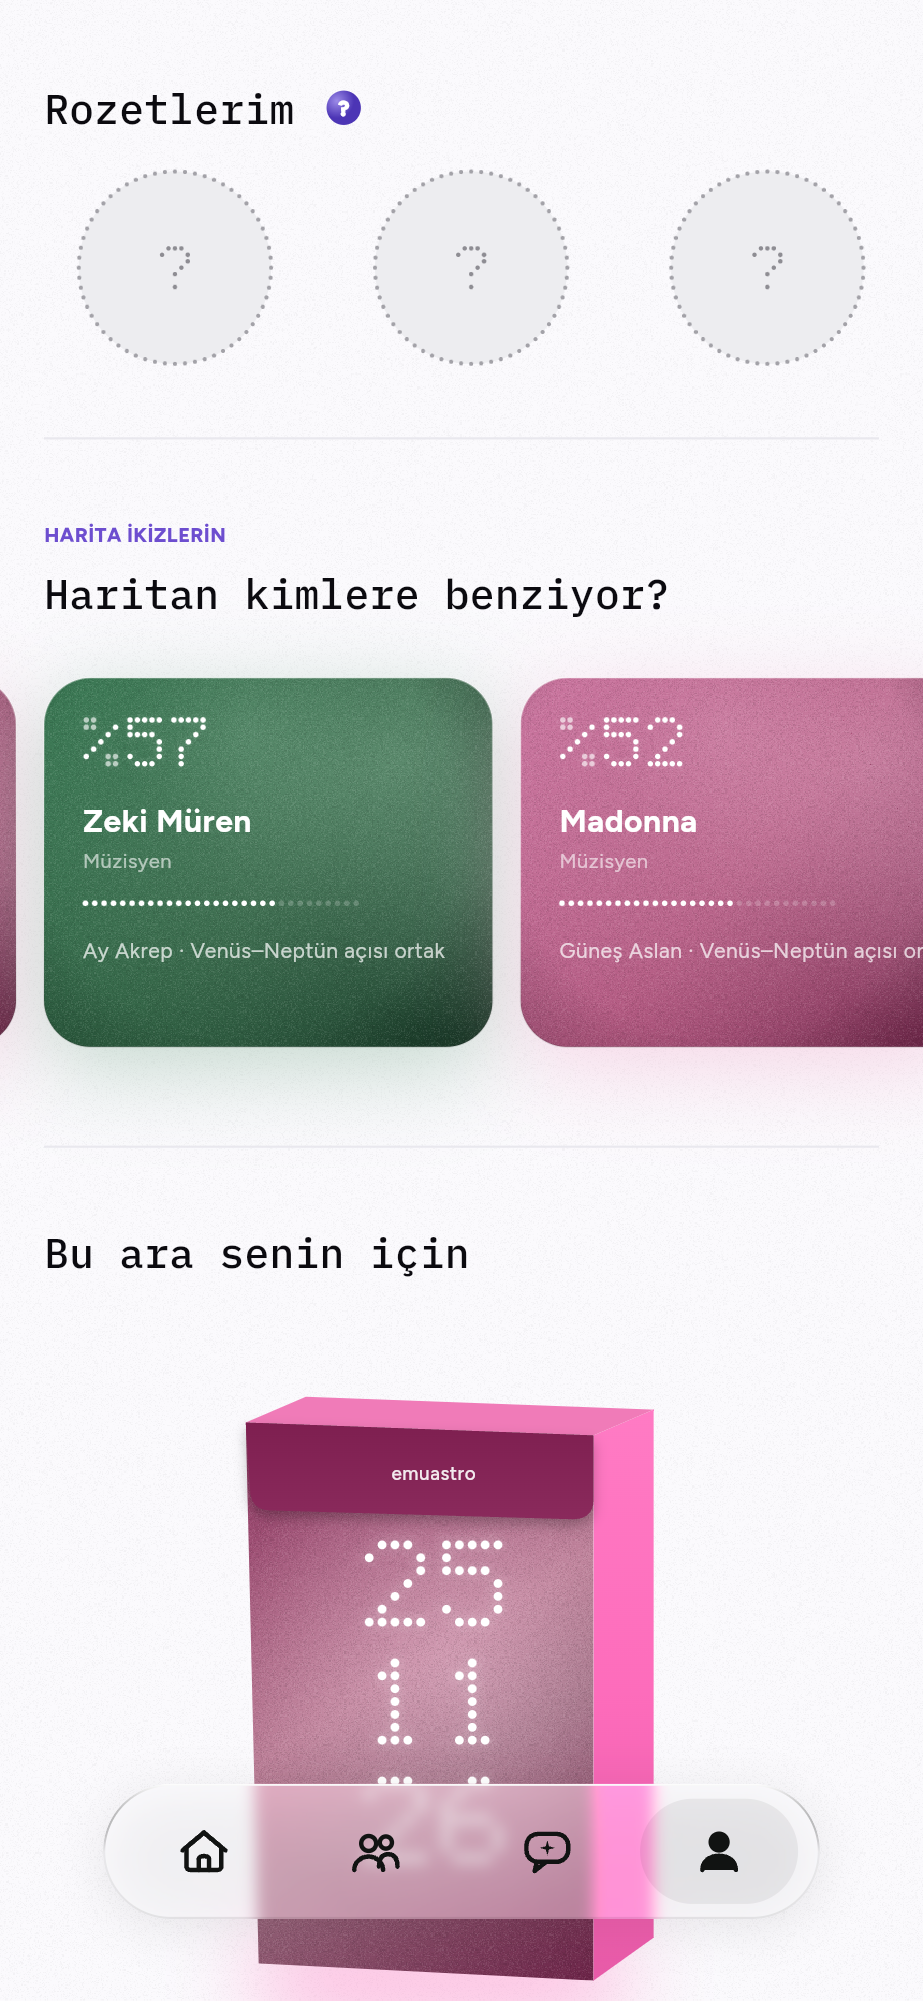
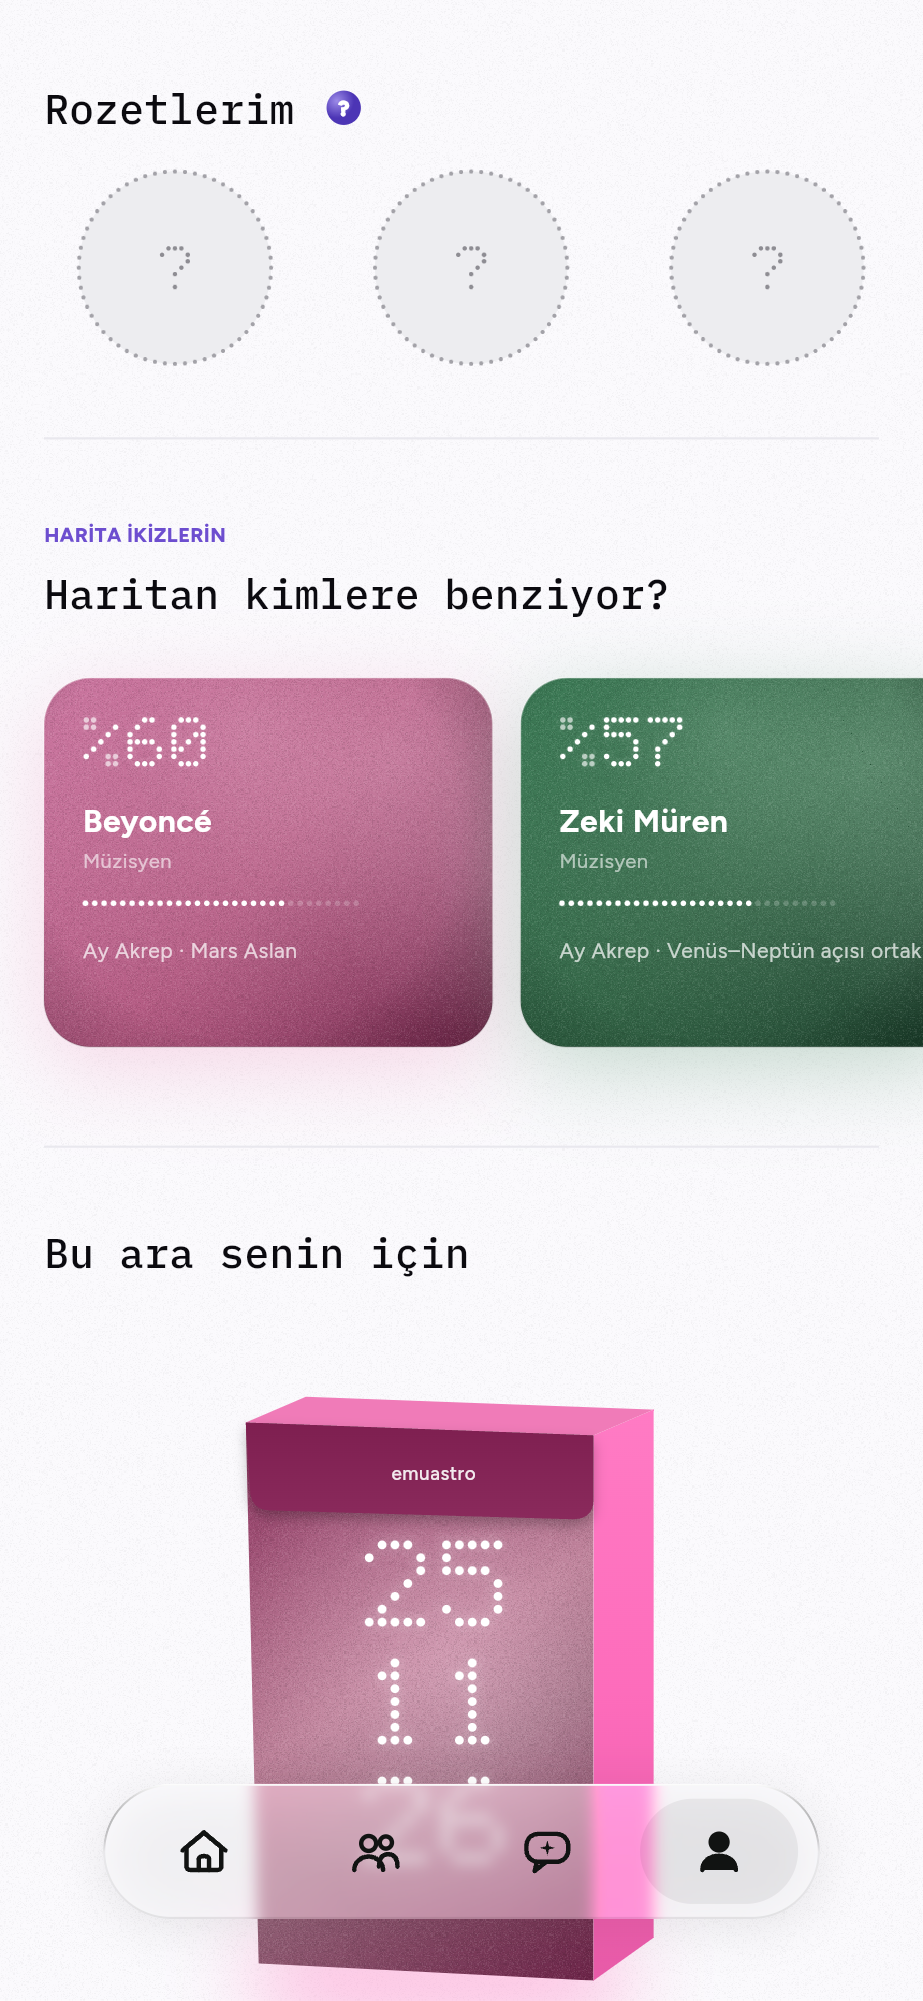
Rehber eşleştirme bağlandı, gün değişiminde yenileme, okunmamış bildirim noktası, ikiz kartları baştan, eski menü kodu kaldırıldı
Claude-Session: https://claude.ai/code/session_01LDjTy557VzBgv9ajHnTzL8

Changed region(s): [[0.0, 0.3408, 1.0, 0.5577]]

diff --git a/lib/widgets/common.dart b/lib/widgets/common.dart
@@ -1,5 +1,4 @@
 import 'dart:math' as math;
-import 'dart:ui' as ui;
 
 import 'package:flutter/material.dart';
 
@@ -330,159 +329,6 @@ class _ChatP extends CustomPainter {
 
   @override
   bool shouldRepaint(covariant CustomPainter o) => false;
-}
-
-/// Yüzen alt gezinme: üç sekmeli lavanta kapsül + bağımsız sohbet düğmesi.
-class FloatingNav extends StatelessWidget {
-  final int index;
-  final bool compact;
-  final ValueChanged<int> onTap;
-  final VoidCallback onChat;
-  const FloatingNav(
-      {super.key,
-      required this.index,
-      required this.compact,
-      required this.onTap,
-      required this.onChat});
-
-  @override
-  Widget build(BuildContext context) {
-    const labels = ['Ana Sayfa', 'İlişkiler', 'Profil'];
-    final w = compact ? 183.5 : 245.5;
-    final h = compact ? 41.0 : 56.0;
-    final chat = compact ? 42.0 : 57.0;
-    const dur = Duration(milliseconds: 260);
-    final bottom = MediaQuery.of(context).padding.bottom;
-    return Positioned(
-      left: 0,
-      right: 0,
-      bottom: bottom + 4,
-      child: SizedBox(
-        height: 57,
-        child: Stack(children: [
-          AnimatedPositioned(
-            duration: dur,
-            curve: Curves.easeOutCubic,
-            left: 18,
-            bottom: 0,
-            width: w,
-            height: h,
-            child: _Glass(
-              radius: h / 2,
-              child: LayoutBuilder(builder: (ctx, c) {
-                final pad = compact ? 3.5 : 5.0;
-                final slotW = (c.maxWidth - pad * 2) / 3;
-                return Stack(children: [
-                  AnimatedPositioned(
-                    duration: dur,
-                    curve: Curves.easeOutCubic,
-                    left: pad + slotW * index - (compact ? 0 : 1),
-                    top: pad,
-                    bottom: pad,
-                    width: slotW + (compact ? 0 : 2),
-                    child: Container(
-                      decoration: BoxDecoration(
-                        borderRadius: BorderRadius.circular(h),
-                        gradient: LinearGradient(
-                            begin: Alignment.topCenter,
-                            end: Alignment.bottomCenter,
-                            colors: [
-                              Colors.white.withValues(alpha: .22),
-                              Colors.white.withValues(alpha: .12)
-                            ]),
-                        border: Border.all(
-                            color: Colors.white.withValues(alpha: .55),
-                            width: 1),
-                      ),
-                    ),
-                  ),
-                  Row(children: [
-                    SizedBox(width: pad),
-                    for (var i = 0; i < 3; i++)
-                      Expanded(
-                        child: GestureDetector(
-                          behavior: HitTestBehavior.opaque,
-                          onTap: () => onTap(i),
-                          child: Center(
-                            child: AnimatedDefaultTextStyle(
-                              duration: dur,
-                              style: T.nav.copyWith(
-                                  fontSize: compact ? 10.2 : 13.4,
-                                  fontWeight: i == index
-                                      ? FontWeight.w700
-                                      : FontWeight.w500,
-                                  color: Colors.white.withValues(
-                                      alpha: i == index ? 1 : .92)),
-                              child: Text(labels[i], maxLines: 1),
-                            ),
-                          ),
-                        ),
-                      ),
-                    SizedBox(width: pad),
-                  ]),
-                ]);
-              }),
-            ),
-          ),
-          AnimatedPositioned(
-            duration: dur,
-            curve: Curves.easeOutCubic,
-            right: 18,
-            bottom: 0,
-            width: chat,
-            height: chat,
-            child: GestureDetector(
-              onTap: onChat,
-              child: _Glass(
-                  radius: chat / 2,
-                  child: Center(child: ChatGlyph(size: chat * .5))),
-            ),
-          ),
-        ]),
-      ),
-    );
-  }
-}
-
-class _Glass extends StatelessWidget {
-  final double radius;
-  final Widget child;
-  const _Glass({required this.radius, required this.child});
-  @override
-  Widget build(BuildContext context) {
-    return DecoratedBox(
-      decoration: BoxDecoration(
-        borderRadius: BorderRadius.circular(radius),
-        boxShadow: [
-          BoxShadow(
-              color: const Color(0xFF8E6CF5).withValues(alpha: .38),
-              blurRadius: 18,
-              offset: const Offset(0, 6)),
-        ],
-      ),
-      child: ClipRRect(
-        borderRadius: BorderRadius.circular(radius),
-        child: BackdropFilter(
-          filter: ui.ImageFilter.blur(sigmaX: 8, sigmaY: 8),
-          child: Container(
-            decoration: BoxDecoration(
-              borderRadius: BorderRadius.circular(radius),
-              gradient: LinearGradient(
-                  begin: Alignment.topCenter,
-                  end: Alignment.bottomCenter,
-                  colors: [
-                    C.navTop.withValues(alpha: .93),
-                    C.navBase.withValues(alpha: .93)
-                  ]),
-              border: Border.all(
-                  color: Colors.white.withValues(alpha: .35), width: .8),
-            ),
-            child: child,
-          ),
-        ),
-      ),
-    );
-  }
 }
 
 void showInfo(BuildContext context, String title, String body) {

diff --git a/lib/data/sample.dart b/lib/data/sample.dart
@@ -160,6 +160,7 @@ class AppData extends ChangeNotifier {
     final tk = _dayKey(today);
     questionsToday = p.getString('qDay') == tk ? (p.getInt('qCount') ?? 0) : 0;
     boxOpenedDay = p.getString('boxDay');
+    seenEvents = p.getString('seenEvents');
     // seri: art arda açılan günler
     final last = p.getString('lastOpen');
     streak = p.getInt('streak') ?? 1;
@@ -287,6 +288,24 @@ class AppData extends ChangeNotifier {
   }
 
   bool get boxOpenedToday => boxOpenedDay == _dayKey(today);
+
+  /// Uygulama öne gelince tarih değiştiyse günlük içeriği yeniden hesaplar.
+  void refreshDay() {
+    final now = DateTime.now();
+    if (_dayKey(now) == _dayKey(today)) return;
+    today = now;
+    questionsToday = 0;
+    _recompute();
+  }
+
+  String? seenEvents;
+  bool get hasUnseen =>
+      events.isNotEmpty && seenEvents != events.map((e) => e.key).join(',');
+  void markEventsSeen() {
+    seenEvents = events.map((e) => e.key).join(',');
+    _prefs?.setString('seenEvents', seenEvents!);
+    notifyListeners();
+  }
 
   void startTrial(int days) {
     trialUntil = DateTime.now().add(Duration(days: days));

diff --git a/lib/screens/friends.dart b/lib/screens/friends.dart
@@ -10,6 +10,7 @@ import '../widgets/common.dart';
 import '../widgets/dots.dart';
 import '../widgets/surface.dart';
 import 'premium.dart';
+import '../services/backend.dart';
 
 String fmtDate(DateTime d) =>
     '${d.day.toString().padLeft(2, '0')}.${d.month.toString().padLeft(2, '0')}.${d.year}';
@@ -161,8 +162,18 @@ Future<void> pickFromContacts(BuildContext context) async {
       }
       return;
     }
-    final list = await FlutterContacts.getAll();
+    final list = await FlutterContacts.getAll(properties: {ContactProperty.phone});
     if (!context.mounted) return;
+    if (Backend.enabled) {
+      final phones = [for (final c in list) for (final ph in c.phones) ph.number];
+      try {
+        final m = await Backend.matchContacts(phones);
+        if (context.mounted && m.isNotEmpty) {
+          showInfo(context, 'Rehberinde EmuAstro’da olanlar',
+              m.map((u) => '• ${u['name']}${u['username'] != null ? ' (@${u['username']})' : ''}').join('\n'));
+        }
+      } catch (_) {}
+    }
     final picked = await showModalBottomSheet<String>(
         context: context,
         isScrollControlled: true,

diff --git a/lib/screens/home.dart b/lib/screens/home.dart
@@ -47,15 +47,19 @@ class HomeScreen extends StatelessWidget {
             Padding(
               padding: const EdgeInsets.only(top: 3, right: 10),
               child: GestureDetector(
-                onTap: () => showInfo(context, 'Bildirimler', [
+                onTap: () {
+                  app.markEventsSeen();
+                  showInfo(context, 'Bildirimler', [
                   for (final e in events) '• ${e.title} (${e.date.day} ${trMonths[e.date.month - 1]}): etkilerin hazır.',
                   '• Bugünkü yaşam haritan: Fırsat ve akış %${app.day.scores[0]}.',
-                ].join('\n')),
+                ].join('\n'));
+                },
                 child: SizedBox(
                   width: 24,
                   height: 24,
                   child: Stack(clipBehavior: Clip.none, children: [
                     const Sprite('bell', size: 22, cells: 18),
+                    if (app.hasUnseen)
                     Positioned(
                         right: -2,
                         top: -2,

diff --git a/lib/main.dart b/lib/main.dart
@@ -63,13 +63,14 @@ class Shell extends StatefulWidget {
   State<Shell> createState() => _ShellState();
 }
 
-class _ShellState extends State<Shell> {
+class _ShellState extends State<Shell> with WidgetsBindingObserver {
   int tab = 0;
   final ctl = List.generate(4, (_) => ScrollController());
 
   @override
   void initState() {
     super.initState();
+    WidgetsBinding.instance.addObserver(this);
     // Karşılaştırma için: ?tab=0..3&scroll=300
     if (kIsWeb) {
       final q = Uri.base.queryParameters;
@@ -83,6 +84,17 @@ class _ShellState extends State<Shell> {
         });
       }
     }
+  }
+
+  @override
+  void didChangeAppLifecycleState(AppLifecycleState s) {
+    if (s == AppLifecycleState.resumed) app.refreshDay();
+  }
+
+  @override
+  void dispose() {
+    WidgetsBinding.instance.removeObserver(this);
+    super.dispose();
   }
 
   void _select(int i) {

diff --git a/lib/screens/profile.dart b/lib/screens/profile.dart
@@ -22,7 +22,7 @@ class ProfileScreen extends StatefulWidget {
 }
 
 class _ProfileScreenState extends State<ProfileScreen> {
-  final twinCtl = ScrollController(initialScrollOffset: 222);
+  final twinCtl = ScrollController();
 
   Widget _p(Widget w) =>
       Padding(padding: const EdgeInsets.symmetric(horizontal: kSide), child: w);
